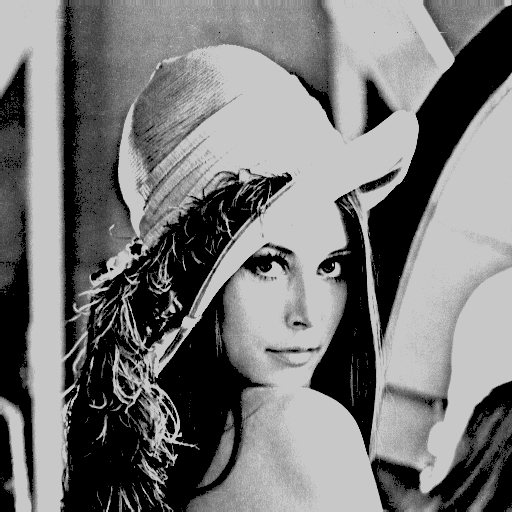
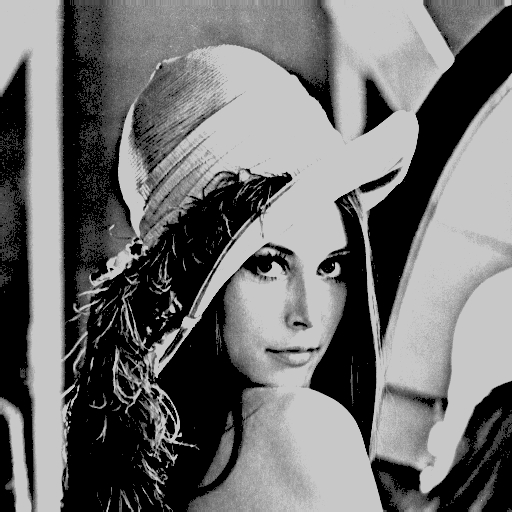
add histogram equalize and bgr2gray

diff --git a/source/image.cpp b/source/image.cpp
@@ -667,7 +667,8 @@ void Image::bgr2gray() {
     for (int j = 0; j < width_; j++) {
       pos_original = i * this->stride() + j * channel_;
       pos_gray = i * width_ + j;
-      tmp_data_[pos_gray] = (data_[pos_original + 0] + data_[pos_original + 1] + data_[pos_original + 2]) / 3; // average rgb
+      // 心理学公式 Gray = 0.3*R + 0.59*G + 0.11*B 的位移写法
+      tmp_data_[pos_gray] = (28 * data_[pos_original + 0] + 151 * data_[pos_original + 1] + 77 * data_[pos_original + 2]) >> 8; // average rgb
     }
   }
 
@@ -700,6 +701,44 @@ void Image::gray_stretch(const int &x1, const int &y1, const int &x2, const int 
       else {
         data_[pos] = (255 - y2) / (255 - x2) * (data_[pos] - x2) + y2;
       }
+    }
+  }
+}
+void Image::histogram_equalize() {
+  // assert
+  if (channel_ != 1) {
+    LOG(ERROR) << "Image::histogram_equalize need channel is 1, but got " << channel_ << ". Skip it!";
+    return;
+  }
+
+  int gray_static[256]{}; //每个灰度值的统计像素个数
+  double gray_accumulation[256]{}; //从0到当前灰度值的累计值像素个数
+  double gray_equal[256]{}; //变换函数
+
+  // 统计灰度
+  for (int i = 0; i < height_; i++) {
+    for (int j = 0; j < width_; j++) {
+      int value = data_[i * width_ + j];
+      gray_static[value]++;
+    }
+  }
+
+  // 统计累积值
+  gray_accumulation[0] = gray_static[0];
+  for (int i = 1; i < 256; i++) {
+    gray_accumulation[i] = gray_accumulation[i-1] + gray_static[i];
+  }
+
+  // 计算变换函数
+  for (int i = 0; i < 256; i++) {
+    gray_equal[i] = 255.f / (width_ * height_) * gray_accumulation[i];
+  }
+
+  // 进行映射
+  for (int i = 0; i < height_; i++) {
+    for (int j = 0; j < width_; j++) {
+      unsigned char old_value = data_[i * width_ + j];
+      data_[i * width_ + j] = gray_equal[old_value];
     }
   }
 }

diff --git a/source/main.cpp b/source/main.cpp
@@ -49,6 +49,14 @@ void gray_stretch_test(Image &input) {
   input_copy.write_jpg("../demo/result/gray_stretch.png", 100);
   LOG(INFO) << "End " << __func__ << " ...";
 }
+void histogram_equalize_test(Image &input) {
+  LOG(INFO) << "Begin " << __func__ << " ...";
+  Image input_copy(input);
+  input_copy.bgr2gray();
+  input_copy.histogram_equalize();
+  input_copy.write_jpg("../demo/result/histogram_equalize.png", 100);
+  LOG(INFO) << "End " << __func__ << " ...";
+}
 int main() {
   std::cout << "hello" << std::endl;
   Image input_image("../demo/test_image/lenna.png");
@@ -62,4 +70,6 @@ int main() {
   threshold_binary_test(input_image);
   // gray_stretch_test
   gray_stretch_test(input_image);
+  // histogram_equalize_test
+  histogram_equalize_test(input_image);
 }

diff --git a/include/image.h b/include/image.h
@@ -55,6 +55,7 @@ class Image {
   void threshold_binary(const int &threshold);
   void bgr2gray();
   void gray_stretch(const int &x1, const int &y1, const int &x2, const int &y2);
+  void histogram_equalize();
 
  private:
   unsigned char *data_ = nullptr;

diff --git a/note/Chapter1.md b/note/Chapter1.md
@@ -53,23 +53,61 @@ $$
 ### 1.7.4 灰度均衡化（直方图均衡化）
 
 拍摄过程中如果天气、光影比较差，会出现曝光不均匀的情况。此时，图像的灰度值主要分布在某些特定的强度区域，大块的高亮区和大块的黑暗区相互分离，影响了观赏。处理这种情况可以采用灰度均衡的方法，将灰度的统计分布拉伸到整个灰度区域（一般为0-255）。
-https://zhuanlan.zhihu.com/p/44918476
-这里介绍直方图均衡化(Histogram Equalization)的基本原理。假设我们现在有一个图像A，其直方图分布为$H_A(D)$ ，我们想利用一个单调非线性映射 $f:R→R$ 将图像A变为图像B，即对图像A中每个像素点施加 $f$ 变换，图像B的直方图分布为 $H_B(D)$ 。整个过程可以按照Figure2的图示来说明：图中右下方是A图像的灰度直方图分布(便于画图，这里画作连续分布)，图中右上方是单调非线性变换函数 f ，左上方式得到的图像B的直方图分布，其中有 DB=f(DA) ， DB+ΔDB=f(DA+ΔDA) 。即可以理解 f 的作用是将A图像里面像素点灰度为 DA 的全部变为 DB ，那么则有： ∫DADA+ΔDAHA(D)dD=∫DBDB+ΔDBHB(D)dD
+这里介绍直方图均衡化(Histogram Equalization)的基本原理。假设我们现在有一个图像A，其直方图分布为$H_A(D)$ ，我们想利用一个单调非线性映射 $f:R→R$ 将图像A变为图像B，即对图像A中每个像素点施加 $f$ 变换，图像B的直方图分布为 $H_B(D)$ 。
+整个过程可以按照Figure2的图示来说明：图中右下方是A图像的灰度直方图分布(便于画图，这里画作连续分布)，图中右上方是单调非线性变换函数$f$，左上方是得到的图像B的直方图分布，其中有$D_B=f(D_A)， D_B+\Delta D_B=f(D_A+\Delta D_A)$。即可以理解$f$的作用是将A图像里灰度级为$D_A$的全部变为B图像里的$D_B$灰度级，那么则有：
 
-上面公式可以理解为对应区间内像素点总数不变。为了实现直方图均衡化，特殊地有： ∫0DAHA(D)dD=∫0DBHB(D)dD
+$$
+\int_{D_A}^{D_A+\Delta D_A} H_A(D) \, dD = \int_{D_B}^{D_B+\Delta D_B} H_B(D) \, dD
+$$
 
-因为目标是直方图均匀分布，那么理想的 HB(D)=A0L ， A0 是 像素点个数， L 是灰度级深度，通常取256。那么得到：
+上面公式可以理解为对应区间内像素点总数不变,特殊地有：
 
-∫0DAHA(D)dD=A0DBL=A0f(DA)L
-那么 ， f 就可以求出来了，结果为：
+$$
+\int_{0}^{D_A} H_A(D) \, dD = \int_{0}^{D_B} H_B(D) \, dD
+$$
 
-f(DA)=LA0∫0DAHA(D)dD
+因为目标是直方图均匀分布，那么理想的$H_B(D)=\frac{A_0}{L}$，$A_0$是像素点个数，L是灰度级深度，通常取256。这可以理解为，变换后的直方图分布为一个均匀分布，由于是均匀分布，每个灰度点能分到的像素个数是$\frac{A_0}{L}$。那么得到：
+
+$$
+\int_{0}^{D_A} H_A(D) \, dD = \int_{0}^{D_B} H_B(D) \, dD =\frac{A_0D_B}{L}=\frac{A_0f(D_A)}{L}
+$$
+
+那么，$f$就可以求出来了，结果为：
+
+$$
+f(D_A)=\frac{L}{A_0}\int_0^{D_A}H_A(D)\,dD
+$$
 
 离散形式为：
 
-f(DA)=LA0∑u=0DAHA(u)
+$$
+D_B = f(D_A)=\frac{L}{A_0} \begin{matrix} \sum_{u=0}^{D_A}H_A(u) \end{matrix}
+$$
+
+其中$L$为像素最大灰度级，$A_o$为图片的像素格式（即为$witdh*height$）。这样就得到了在A图像里每个灰度值为$D_A$的像素如何变换到B图像里的像素，变换后的灰度值为$D_B$
 
 ![](https://pic4.zhimg.com/80/v2-f6e89ba884fdb32d3aae4f2d19a4688f_1440w.webp)
 
 <center>Figure2 直方图均衡化示意图</center>
+
+### 1.7.5 256色转灰度图
+
+从rgb/bgr彩色图向灰度图的转换现在主流采用下面的心理学公式，通过不同的精度实现方法有下列3中不同的公式，其中位运算最快。
+心理学公式：
+
+$$
+Gray = 0.3*R + 0.59*G + 0.11*B
+$$
+
+整数运算公式：
+
+$$
+Gray = (30*R + 59*G + 11*B)/100
+$$
+
+位移运算公式：
+
+$$
+Gray = (28*R + 151*G + 77*B)>>8
+$$
 
